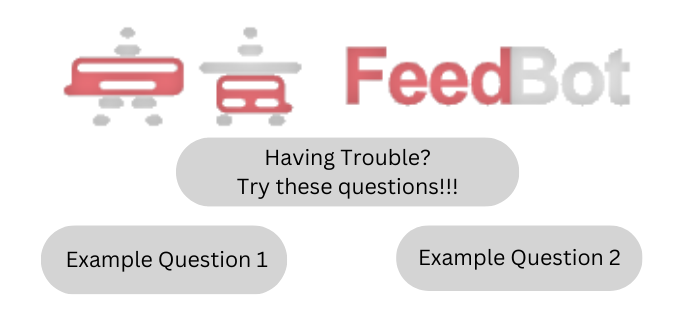
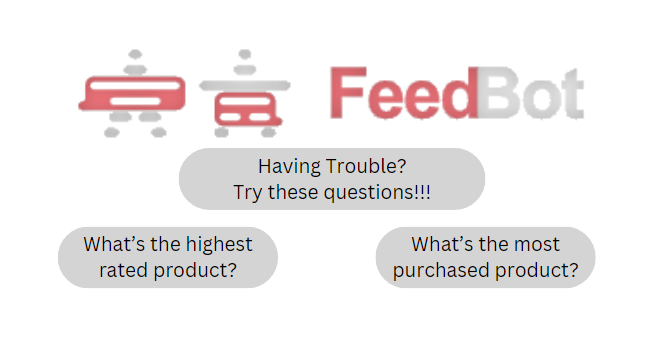
Allow users to select a .csv file, located in their 'IBM-Chatbot' directory, within UI to be processed (#128)
* Changed insert document screen

changed it from a button to the user typing the name of the file into a text box

* changed example questions

changed the example questions on the chat with me screen to actually have questions

* Added feature where users can choose any csv file to use, in their chatbot directory, within the UI

---------

diff --git a/front-end/src/components/InsertDocument.js b/front-end/src/components/InsertDocument.js
@@ -1,32 +1,69 @@
 import React, { useState } from 'react';
 import { saveAs } from 'file-saver';
+import './InsertDocument.css';
+import axios from "axios";
+import io from "socket.io-client"; // Import CSS file for styling
 
-function FileUpload() {
-  const [selectedFile, setSelectedFile] = useState(null);
+function InsertDocument() {
+  axios.defaults.baseURL = 'http://localhost:5000';
+  const [files, setFiles] = useState(["Click 'Refresh Files' to load"]);
+  const [selectedFile, setSelectedFile] = useState("");
 
-  const handleFileChange = (event) => {
-    const file = event.target.files[0];
-    setSelectedFile(file);
+  const handleInputChange = (event) => {
+    setFileName(event.target.value);
+  };
 
-    // Save the file locally (in the 'uploads' folder)
-    const reader = new FileReader();
-    reader.onload = (e) => {
-      const fileContent = e.target.result;
-      const fileName = 'my-file.csv'; // Set your desired file name
-      const blob = new Blob([fileContent], { type: 'text/csv' });
-      saveAs(blob, fileName); // Save the file using file-saver
-    };
-    reader.readAsArrayBuffer(file);
+  const refresh = async () => {
+    try {
+      await axios.post('/files')
+          .then(response => {
+            setFiles(response.data.files);
+          })
+          .catch(error => {
+            console.error('Error fetching data:', error);
+            setFiles([]);
+          });
+    } catch (e) {
+      if (e instanceof Error) alert(e);
+    }
+  };
+
+  const setFile = async (file) => {
+    try {
+      setSelectedFile(file);
+      await axios.post('/setFile', {file: file})
+          .catch(error => {
+            console.error('Error fetching data:', error);
+          });
+    } catch (e) {
+      if (e instanceof Error) alert(e);
+    }
   };
 
   return (
-    <div>
-      <input type="file" accept=".csv" onChange={handleFileChange} />
-      <button onClick={() => document.querySelector('input[type="file"]').click()}>
-        Upload CSV
-      </button>
+    <div className="insert-document-container">
+      <div className="openai-card">
+
+          <h1 className="header-api">Select Reviews/Feedback File (.CSV)</h1>
+          <h5>Add relevant datasets to the 'IBM-Chatbot/' folder and they will appear below.</h5>
+          <h6>You may use any relevant comma-seperated values file with FeedBot.</h6>
+          <br/>
+        {
+          files.map((file, index) => (
+            [<label key={`enabled-llm.${file}.${index}`}>
+              <button name="g2" onClick={(event) => {setFile(file);}}>{file}</button>
+            </label>, <br/>]))
+        }
+        <br/><br/><br/>
+        <button className="API-button" onClick={refresh}>
+          Refresh Files
+        </button>
+        {selectedFile !== "" && (
+        <h6>Using: "{selectedFile}"</h6>
+            )}
+      </div>
     </div>
   );
 }
 
-export default FileUpload;
+export default InsertDocument;

diff --git a/front-end/src/components/InsertDocument.css b/front-end/src/components/InsertDocument.css
@@ -1,0 +1,50 @@
+/* InsertDocument.css */
+
+.insert-document-container {
+    text-align: center;
+    margin-top: 100px; /* Increase top margin for more vertical space */
+}
+
+.input-val {
+    width: 300px;
+    height: 55px;
+    padding: 10px;
+    font-size: 15px;
+    margin-bottom: 20px; /* Increase bottom margin for more space between input and button */
+    border-radius: 5px;
+    color: #CA6267;
+}
+
+.API-button {
+    width: 150px;
+    height: 50px;
+    background-color: #CA6267;
+    color: white;
+    font-size: 15px;
+    font-weight: bold;
+    padding: 10px;
+    border: 1px solid;
+    border-color: black;
+    border-radius: 10px;
+    margin-left: 50px;
+}
+
+.API-button:hover {
+    background-color: rgb(0, 140, 255);
+    border-color: pink;
+}
+
+.header-api {
+    color: #CA6267;
+    margin: 20px;
+}
+
+.h2-api {
+    color: black;
+    margin-bottom: 20px; /* Increase bottom margin for more space between header and input */
+}
+
+.instructions {
+    color: black;
+    margin-bottom: 60px; /* Increase bottom margin for more space between instruction and input */
+}

diff --git a/app.py b/app.py
@@ -60,7 +60,8 @@ def _get_data(messages, llm_choices, sql=False):
     pool = ThreadPoolExecutor(4)
 
     question = messages[-1].content
-    context = get_db().as_retriever(k=1).invoke(question)
+    global filename
+    context = get_db(filename).as_retriever(k=1).invoke(question)
     context_source = RunnablePassthrough.assign(context=lambda _: context)
     
     for llm_choice in llm_choices:
@@ -123,6 +124,7 @@ if __name__ == "__main__":
     from flask import Flask, request, jsonify
     from flask_cors import CORS
     from flask_socketio import SocketIO
+    from os import listdir
     app = Flask(__name__)
     socketio = SocketIO(app, cors_allowed_origins="*")
     CORS(app)
@@ -133,7 +135,8 @@ if __name__ == "__main__":
         open('.env', 'w')
         load_dotenv('.env')
     refresh_environment_vars()
-
+    global filename
+    filename = "_Datafiniti_Amazon_Consumer_Reviews_of_Amazon_Products.csv"
     @app.route('/message', methods=['POST'])
     def get_data():
         global state
@@ -178,6 +181,24 @@ if __name__ == "__main__":
         set_state(None)
         return jsonify(200)
 
+
+    @app.route('/setFile', methods=['POST'])
+    def set_file():
+        data = request.json
+        global filename
+        filename = data.get('file')
+        print('Updated filename to: "' + filename + '"')
+        return jsonify(200)
+
+    @app.route('/files', methods=['POST'])
+    def get_files():
+        files = []
+        for file in listdir("."):
+            if file.endswith(".csv"):
+                print(file)
+                files.append(file)
+
+        return jsonify({"files" : files})
 
     @app.route('/config', methods=['POST'])
     def config_llm():

diff --git a/db.py b/db.py
@@ -11,6 +11,8 @@ from typing import Any, Dict, Iterator, List, Optional, Union
 
 import config
 
+global filename
+filename = ""
 #retrieves the documents from the csv's file_name metadata columns and column names
 def get_datafiniti_documents(file_name: str) -> List[Document]:
     loader = CSVLoader(
@@ -23,8 +25,13 @@ def get_datafiniti_documents(file_name: str) -> List[Document]:
 
 #returns a chroma document from the csv file listed within
 @functools.cache
-def get_db():
-    documents = get_datafiniti_documents("_Datafiniti_Amazon_Consumer_Reviews_of_Amazon_Products.csv")
+def get_db(inputFile):
+    global filename
+    if inputFile == ".csv":
+        inputFile = filename
+    elif inputFile.endswith(".csv"):
+        filename = inputFile
+    documents = get_datafiniti_documents(inputFile)
     print("Loading persisted ChromaDB data store")
     db = Chroma(
         persist_directory=".chroma_db",

diff --git a/agent/sql.py b/agent/sql.py
@@ -10,12 +10,12 @@ from sentence_transformers.util import cos_sim
 from typing import Any, Dict, Iterator, List, Optional, Union, Callable
 from dataclasses import dataclass
 
+
 def inject_documents(connection: sqlite3.Connection):
     """
     Adds a "Reviews" table to the database, deleting any reviews table that exists already.
     """
-
-    documents = get_db().get(include=["metadatas", "embeddings", "documents"])
+    documents = get_db(".csv").get(include=["metadatas", "embeddings", "documents"])
     ids = documents["ids"]
     pages = documents["documents"]
     metadatas = documents["metadatas"]
